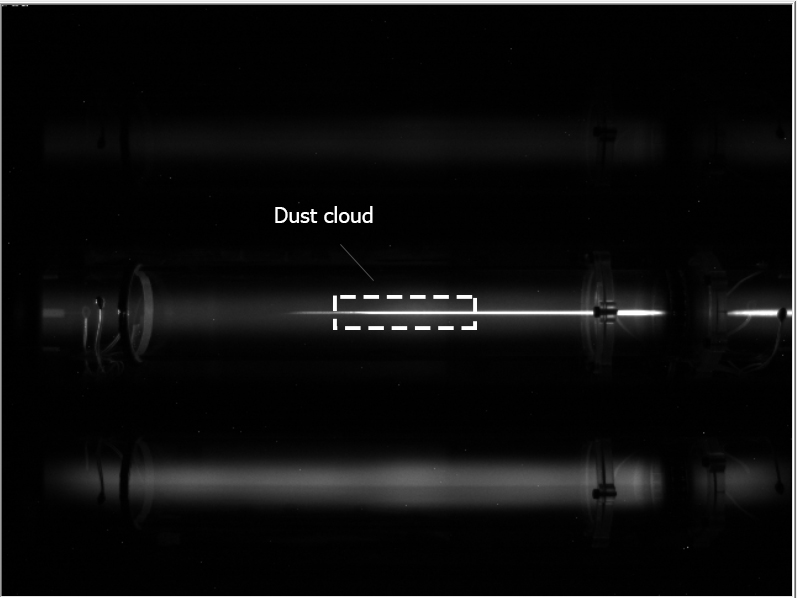
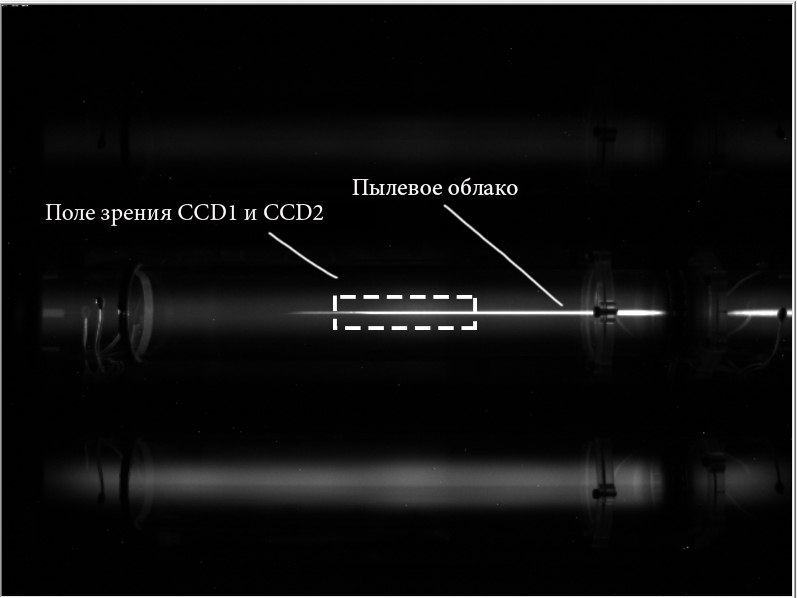
many fixes, new section literature review

diff --git a/tex/33-chapter-three.tex b/tex/33-chapter-three.tex
@@ -34,8 +34,8 @@
          }
          \caption{Экспериментальная установка научной аппаратуры «Плазменный~кристалл-4»: \pt(а) 3D-модель внутренностей,
                   \pt(б) фото уже собранной установки в лабораторных условиях.}
-    \end{center}
     \label{fig:pk4}
+    \end{center}
 \end{figure}
 
 \label{sec:sec_31}
@@ -49,7 +49,7 @@
 и поддержания разряда постоянного тока. Системы вакуумной откачки и накачки газа соединяются с концами трубки
 через данные электроды. Пылевые частицы подсвечиваются зеленым (532~нм) лазерным «ножом» и
 регистрируются двумя камерами наблюдения высокого разрешения (CCD1 и CCD2).
-Для отслеживания макро поведения подсвеченной плазмы используется общая камера наблюдения (CCD3) (см~рис.~\ref{fig:fig31}).
+Для отслеживания макро поведения подсвеченной плазмы используется общая камера наблюдения (CCD3) (см.~рисунок~\ref{fig:fig31}).
 
 Каждая камера CCD1/CCD2 имеет поле зрения \math{22 × 17}$~мм\math{^2}$, разрешение \math{1600 × 1200}$~пикселей, а также
 частоту кадросмен 35~кадров в секунду. Камеры дополняют друг друга, присоединяясь меньшими сторонами и имеют общий размер
@@ -62,13 +62,13 @@
 помеховых фильтров, настроенных на 705 и 587~нм.
 
 Одна из копий модифицированной экспериментальной установки НА~«ПК-4«, которая в собранном виде  внешне не имеет существенных отличий,
-находится в институте ОИВТ РАН (см~рис.~\ref{sub:photo-pk4}).
+находится в институте ОИВТ РАН (см.~рисунок~\ref{fig:pk4}~\subref{sub:photo-pk4}).
 
 \section{Спектрометр «OceanOptics~USB2000+»}
-Для осуществления спектральной диагностики НА~«ПК-4» применяется модульный мини-спектрометр OceanOptics~USB2000+ (см~рис.~\ref{fig:full_usb2000+}).
+Для осуществления спектральной диагностики НА~«ПК-4» применяется модульный мини-спектрометр OceanOptics~USB2000+ (см.~рисунок~\ref{fig:full_usb2000+}).
 В основе лежит 2048-пиксельная ПЗС-линейка, которая позволяет проводить спектральные измерения в диапазоне длин
 волн 350-1100~нм со спектральным разрешением 1.5~нм. Приемная головка световода спектрометра устанавливается рядом
-с камерами высокого разрешения (CCD1, CCD2) и подключается к спектрометру через оптическое волокно (см~рис.~\ref{fig:fig31}).
+с камерами высокого разрешения (CCD1, CCD2) и подключается к спектрометру через оптическое волокно (см.~рисунок~\ref{fig:fig31}).
 Время считывания одного спектра составляет 4~с. Данный спектрометр также подходит для осуществления
 контроля чистоты плазмы во время экспериментов.
 \begin{figure}[t]
@@ -92,7 +92,7 @@
 \begin{figure}[t]
   \centering
   \includegraphics[width=14cm]{figures/common_camera}
-  \caption{Кадр видеозаписи с общей камеры наблюдения в ходе эксперимента, отмеченная область пылевого облака явлется областью видимости
+  \caption{Кадр видеозаписи с общей камеры наблюдения в ходе эксперимента, отмеченная область пылевого облака явлется областью поля зрения
   камер высокого разрешения (CCD1, CCD2.}
   \label{fig:common_camera}
 \end{figure}
@@ -101,13 +101,13 @@
 отрицательно и начинают оседать на стенках трубки. Для того, чтобы поддерживать баланс гибели и рождения и плавно
 управлять положением пылевого облака, необходимо регулировать электрическое поле постоянного тока с помощью напряжения
 между катодом и анодом. Наблюдая за пылевым облаком через общую камеру наблюдения CCD3,
-облако переносится в центр трубки (см~рис.~\ref{fig:common_camera}), где за пылевыми частицами можно наблюдать с помощью
+облако переносится в центр трубки (см.~рисунок~\ref{fig:common_camera}), где за пылевыми частицами можно наблюдать с помощью
 камер высокого разрешения CCD1 и CCD2, а также осуществлять спектральную диагностику излучения.
 
 \begin{figure}[t]
   \centering
   \includegraphics[width=16cm]{figures/high_resolution_cameras}
-  \caption{Кадры видеозаписей с двух камер наблюдения высокого разрешения PGO. Кадры синхронизированы во времени, а также пространственно дополняют друг друга.}
+  \caption{Кадры видеозаписей с двух камер наблюдения высокого разрешения CCD1 и CCD2. Кадры синхронизированы во времени, а также пространственно дополняют друг друга.}
   \label{fig:high_resolution_cameras}
 \end{figure}
 
@@ -129,12 +129,12 @@
 В научной аппаратуре «Плазменный~кристалл-4» выделены следующие каналы получения экспериментальных данных,
 которые были задействованы в какой-либо мере в данной работе:
 \begin{enumerate}
-    \item Видеозаписи с двух камер высокого разрешения CCD1 и CCD2 (см~рис.~\ref{fig:high_resolution_cameras}).
+    \item Видеозаписи с двух камер высокого разрешения CCD1 и CCD2 (см.~рисунок~\ref{fig:high_resolution_cameras}).
     Видеофайлы в сыром виде имеют формат «.avi» с размером 4~Gb/min от одной камеры. На данных записях хорошо
     различимы отдельные пылевые частицы, что позволяет отслеживать их траектории движения, а также наблюдать за
     их поведением в любой момент времени.
 
-    \item Видеозаписи с общей камеры наблюдения. Представляют собой файлы в формате «.avi» с размером 0.3~Gb/min (см~рис.~\ref{fig:common_camera}).
+    \item Видеозаписи с общей камеры наблюдения. Представляют собой файлы в формате «.avi» с размером 0.3~Gb/min (см.~рисунок~\ref{fig:common_camera}).
     На этих видеозаписях видно трубку целиком вместе с подсвеченной пылевой плазмой, где можно отследить макро поведение
     облака, в отличие от камер CCD1 и CCD2.
 
@@ -147,7 +147,7 @@
 
     \item Спектральные данные. Представляют собой текстовые файлы в формате «.dat», которые имеют свою особую структуру
     по блокам, удобную для парсинга. Пример блока можно найти в \hyperref[app:app1]{приложении~А}. Эти спектральные данные
-    хранят информацию о состоянии спектрометра в любой момент времени, его манипуляции, а также сырые данные с его ПЗС-линейки (см~рис.~\ref{fig:raw_spectrum}).
+    хранят информацию о состоянии спектрометра в любой момент времени, его манипуляции, а также сырые данные с его ПЗС-линейки (см.~рисунок~\ref{fig:raw_spectrum}).
 
     \item Логи. Представляют собой текстовые файлы в формате «.log», которые содержат информацию обо всех
     технических изменениях в ходе эксперимента с временными отметками. Пример также можно найти в \hyperref[app:app2]{приложении~Б}.

diff --git a/tex/35-chapter-five.tex b/tex/35-chapter-five.tex
@@ -4,9 +4,9 @@
 В качестве исследования были обработаны сырые спектральные данные, полученные при одних и тех же
 технических условиях системы, в отсутствие пылевого облака, а также в присутствии пылевого облака (см~рис.~\ref{fig:fig34}).
 
-\begin{figure}
+\begin{figure}[t]
     \centering
-    \includegraphics[width=15cm]{figures/fig34}
+    \includegraphics[width=16cm]{figures/fig34}
     \caption{
         Зависимость интенсивности (усл.~ед.) от длины волны (нм). На графике наложены три спектра:
         1. Ниже нуля калибровочный спектр с достоверными линиями неона;
@@ -20,9 +20,9 @@
 Экспериментально было обнаружено увеличение интенсивности спектральных линий при попадании пылевого облака
 в газовый разряд неона, причем линии с разными верхними энергетическими уровнями имеют разные значения
 отношений интенсивностей (см~рис.~\ref{fig:fig35}).
-\begin{figure}
+\begin{figure}[t]
     \centering
-    \includegraphics[width=15cm]{figures/fig35}
+    \includegraphics[width=16cm]{figures/fig35}
     \caption{Зависимость отношения интенсивностей спектральных линий неона в присутствии пылевого облака к отсутствию пылевого облака.}
     \label{fig:fig35}
 \end{figure}
@@ -32,10 +32,10 @@
 
 Поскольку электроны, имеющие энергию выше пороговой участвуют в неупругих столкновениях с атомами, то ФРЭ должно иметь
 двухтемпературное распределение [ССЫЛКА???]. Несложно заметить, что полученные расчетные ФРЭ также имеют двухтемпературный вид:
-на рис. {\ref{sub:log_fre_start}} распределения более менее можно аппроксимировать прямыми линиями со своими электронными
+на рис. {\ref{sub:log_fre_start}} распределения можно аппроксимировать прямыми линиями со своими электронными
 температурами, но хвостовые части (см.~рис.~\ref{sub:log_fre_tail}) идеально описываются прямыми линиями. Запишем распределение хвостовой части ФРЭ:
 \begin{equation}
-    f_{tail}(\epsilon) = e^{-{\epsilon \over T_e}} \Rightarrow ln(f_{tail}) = - {\epsilon \over T_e}
+    f_{tail}(\epsilon) = e^{-{\epsilon \over T_e}} \Rightarrow ln(f_{tail}) = - {\epsilon \over T_e}.
     \label{eq:tail}
 \end{equation}
 
@@ -43,13 +43,13 @@
 спектральной линии пропорциональна заселенности верхнего уровня данного перехода, которая в свою очередь
 пропорциональна скорости заселения верхнего уровня, т.е.:
 \begin{equation}
-I(T_e) \sim N^*(T_e) \sim X_{exc}(T_e)  % \sim  \int_{E_{th}}^{\infty} \sigma(\epsilon)f_{tail}(\epsilon)\sqrt{\epsilon}d\epsilon
+I(T_e) \sim N^*(T_e) \sim X_{exc}(T_e).  % \sim  \int_{E_{th}}^{\infty} \sigma(\epsilon)f_{tail}(\epsilon)\sqrt{\epsilon}d\epsilon
 \label{eq:sim_Te}
 \end{equation}
 
 Скорость заселения верхних уровней определяется следующим выражением [МОЖЕТ СТОИТ ВЫНЕСТИ ЕГО В РАЗДЕЛ 1.1 ???]:
 \begin{equation}
-    X_{exc} (T_e) = \sqrt{2 \over m} \int_{E_{th}}^{\infty} \sigma(\epsilon)f(\epsilon)\sqrt{\epsilon}d\epsilon
+    X_{exc} (T_e) = \sqrt{2 \over m} \int_{E_{th}}^{\infty} \sigma(\epsilon)f(\epsilon)\sqrt{\epsilon}d\epsilon,
     \label{eq:velocity}
 \end{equation}
 где \math{\sigma (\epsilon)}$~--~сечение неупругих столкновений для переходного уровня в зависимости от энергии;
@@ -59,24 +59,24 @@ I(T_e) \sim N^*(T_e) \sim X_{exc}(T_e)  % \sim  \int_{E_{th}}^{\infty} \sigma(\e
 спектральной линии в рамках одного переходного процесса, имеем:
 \begin{equation}
 {{I_2} \over {I_1}}= {{\int_{E_{th}}^{\infty} \sigma(\epsilon)f_{2}(\epsilon)\sqrt{\epsilon}d\epsilon} \over
-{\int_{E_{th}}^{\infty} \sigma(\epsilon)f_{1}(\epsilon)\sqrt{\epsilon}d\epsilon}}
+{\int_{E_{th}}^{\infty} \sigma(\epsilon)f_{1}(\epsilon)\sqrt{\epsilon}d\epsilon}},
 \label{eq:intensities_ratio}
 \end{equation}
-здесь индексы 1 и 2 обозначают различные конфигурации самосогласованного газового разряда, т.е. при различных осевых
+где индексы 1 и 2 обозначают различные конфигурации самосогласованного газового разряда, т.е. при различных осевых
 электрических полях. Сечение \math{\sigma}$ и пороговая энергия \math{E_{th}}$ не различаются для двух конфигураций.
-Следует отметить, что энергия верхнего уровня влияет на значение отношения интенсивностей, что мы и наблюдаем в эксперименте (см.~рис.~\ref{fig:fig16}).
+Следует отметить, что энергия верхнего уровня влияет на значение отношения интенсивностей, что мы и наблюдаем в эксперименте (см.~рис~\ref{fig:fig16}).
 
 Таким образом, выполнив перебор всех расчетных ФРЭ для различных осевых электрических, можно понять по отношению
 интенсивностей спектральных линий и (\ref{eq:intensities_ratio}), какая из ФРЭ описывает новую конфигурацию
 газового разряда. Затем по хвостовой части ФРЭ из (\ref{eq:tail}) несложно вычислить и электронную температуру:
 \begin{equation}
-    T_{e,2} = {ln(f_{tail,1}) \over ln(f_{tail,2})} T_{e,1}
+    T_{e,2} = {ln(f_{tail,1}) \over ln(f_{tail,2})} T_{e,1}.
 \end{equation}
 
 % ПЕРЕНЕСТИ
 \begin{figure}[t]
   \centering
-  \includegraphics[width=12cm]{figures/fig16}
+  \includegraphics[width=16cm]{figures/fig16}
   \caption{Зависимость ...... .}
   \label{fig:fig16}
 \end{figure}

diff --git a/tex/12-annotation.tex b/tex/12-annotation.tex
@@ -1,3 +1,6 @@
 \chapter*{Аннотация}
 
-Текст
+В данной работе разработан метод измерения относительного изменения температуры электронов $T_e$
+в стационарном однородном положительном столбе слаботочного газового разряда
+постоянного тока в неоне низкого давления под влиянием протяженного пылевого
+облака в космических условиях по изменению интенсивности различных спектральных линий.
